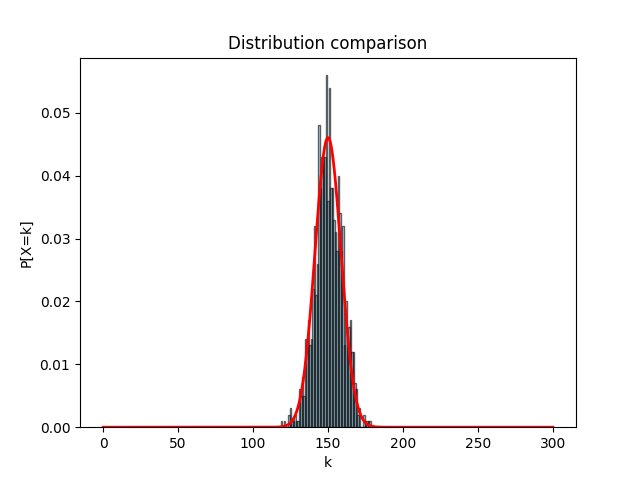
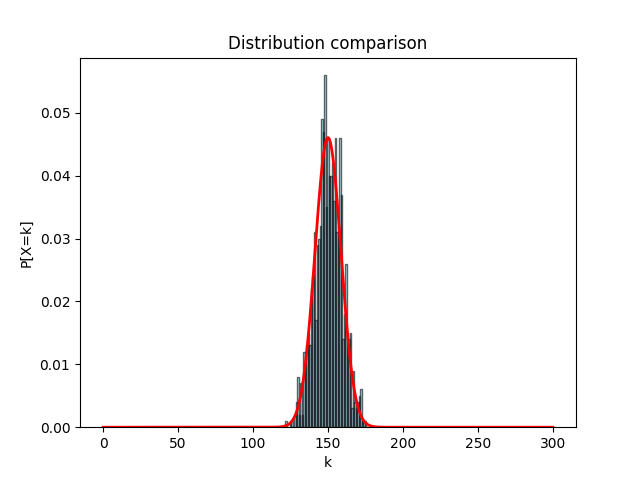
CHI

Changed region(s): [[0.4688, 0.1562, 0.5938, 0.9062], [0.4375, 0.7812, 0.5, 0.9062], [0.4688, 0.625, 0.5, 0.75]]

diff --git a/simulate.py b/simulate.py
@@ -38,19 +38,34 @@ class Board:
         return res
 
 def chi2_format(expected_counts, obs_counts):
+    i = 0
     while np.any(expected_counts < 5):
-        if expected_counts[0] < 5:
-            expected_counts[1] += expected_counts[0]
-            obs_counts[1] += obs_counts[0]
-            expected_counts = expected_counts[1:]
-            obs_counts = obs_counts[1:]
-        elif expected_counts[-1] < 5:
-            expected_counts[-2] += expected_counts[-1]
-            obs_counts[-2] += obs_counts[-1]
-            expected_counts = expected_counts[:-1]
-            obs_counts = obs_counts[:-1]
+        if i < len(expected_counts)//2:
+            if expected_counts[i] < 5:
+                expected_counts[i+1] += expected_counts[i]
+                expected_counts = np.delete(expected_counts,i)
+                obs_counts = np.delete(obs_counts,i)
+                i-=1
         else:
-            break
+            if expected_counts[i] < 5:
+                expected_counts[i-1] += expected_counts[i]
+                expected_counts = np.delete(expected_counts,i)
+                obs_counts = np.delete(obs_counts,i)
+                i -= 1
+        i+=1
+
+        # if expected_counts[0] < 5:
+        #     expected_counts[1] += expected_counts[0]
+        #     obs_counts[1] += obs_counts[0]
+        #     expected_counts = expected_counts[1:]
+        #     obs_counts = obs_counts[1:]
+        # elif expected_counts[-1] < 5:
+        #     expected_counts[-2] += expected_counts[-1]
+        #     obs_counts[-2] += obs_counts[-1]
+        #     expected_counts = expected_counts[:-1]
+        #     obs_counts = obs_counts[:-1]
+        # else:
+        #     break
 
     chi2_stat = np.sum((obs_counts - expected_counts)**2 / expected_counts)
     print(f"CHI2 statistic {chi2_stat}")
